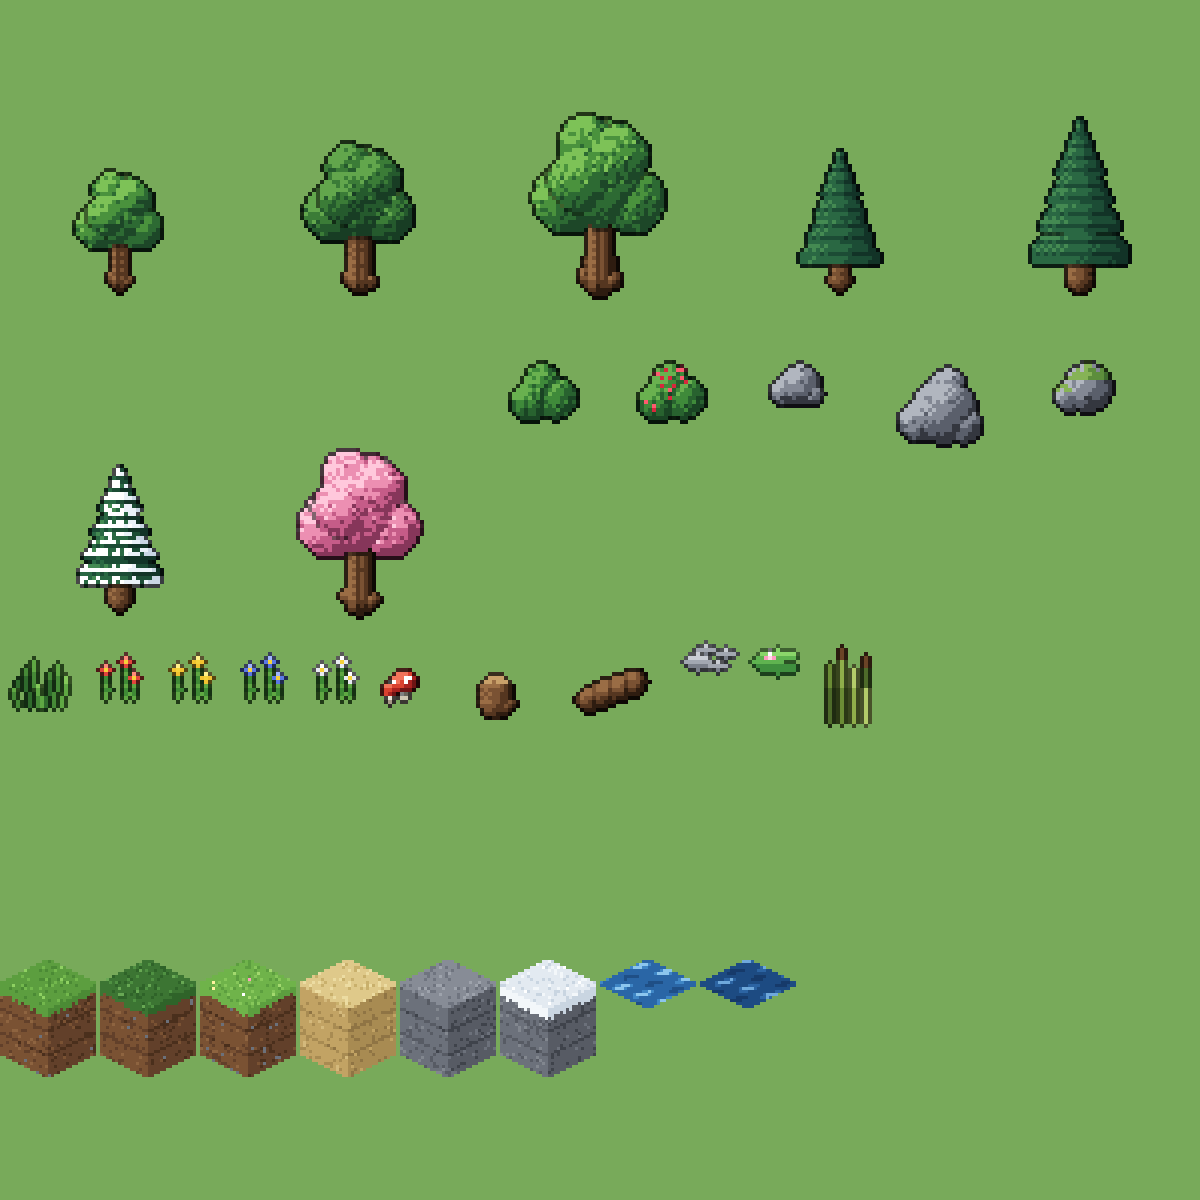
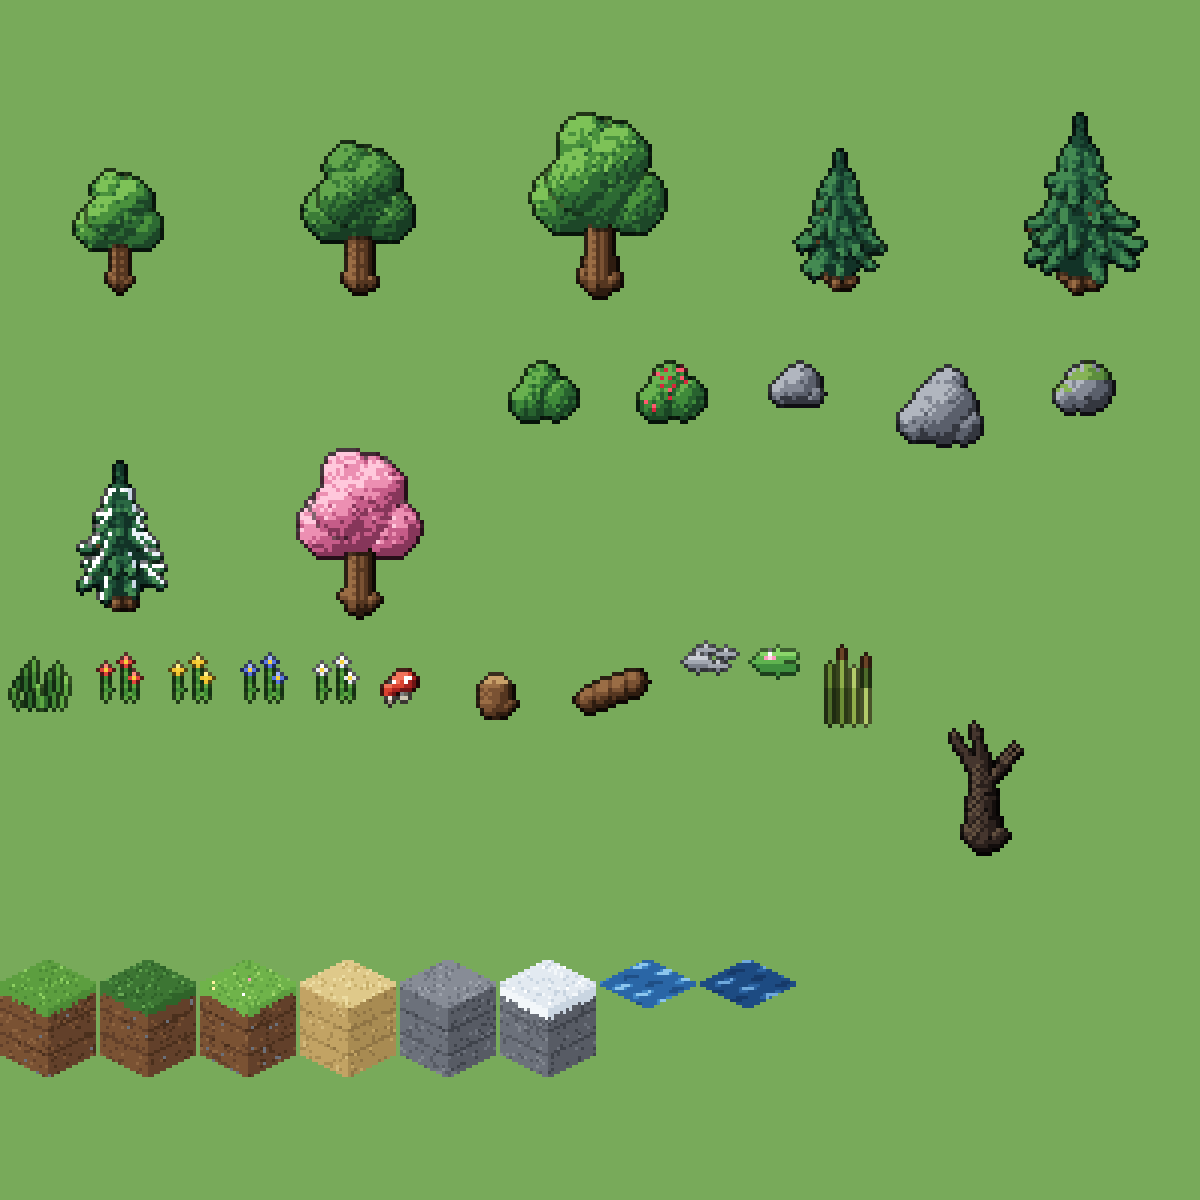
Sapins redessinés (étages de rameaux qui retombent, cœur sombre, bouts clairs, pommes de pin, neige sur les rameaux) ; brouillard retiré ; balancement de la végétation calme et continu (il ne clignote plus après quelques minutes de jeu)

diff --git a/js/main.js b/js/main.js
@@ -5,7 +5,6 @@ import { renderNomu, ANIMS, holdPoint, sizeOf } from './nomu.js';
 import { MUTATIONS, BRANCHES, draw3, looks } from './mutations.js';
 import { ITEMS, RECIPES, DROPS, STACK, TOOLS, buildIcons, buildMutIcons } from './items.js';
 import { renderBeast, BEASTS, BEAST_ANIMS, BEAST_MEAL } from './beasts.js';
-import { valueNoise } from './noise.js';
 import * as SP from './sprites.js';
 import { hash, makeBuffer } from './raster.js';
 import { drawText, textWidth } from './font.js';
@@ -124,7 +123,7 @@ const HOLD_ANIMS = ['grab', 'carry', 'carryWalk', 'carryJump', 'throwAim', 'thro
 // à une main (la droite) ; dérapage et freinage en sprint : la prise traîne sous sa main
 const HOLD1_ANIMS = ['grab1', 'carry1', 'carryWalk1', 'carryJump1', 'run1', 'drop1', 'rise1', 'throwAim1', 'throw1', 'skid', 'brake'];
 const holdPts = {};
-let objSprites, objGlow, objRot, icons, crackImgs, peopleImgs, bloodImgs, ashImgs, flameImgs, fogImg, waterImgs, foamImgs, rimImgs, shadows, ui;
+let objSprites, objGlow, objRot, icons, crackImgs, peopleImgs, bloodImgs, ashImgs, flameImgs, waterImgs, foamImgs, rimImgs, shadows, ui;
 const blockCache = new Map();
 
 function block(type, h, v) {
@@ -206,7 +205,6 @@ async function loadAssets() {
   icons = {};
   const ic = Object.assign(buildIcons(), buildMutIcons());
   for (const id in ic) icons[id] = toCanvas(ic[id]);
-  fogImg = toCanvas(fogBuffer());
   const total = jobs.length + 5;
   let done = 0;
   const progress = () => { bar.style.width = (100 * done / total) + '%'; };
@@ -305,6 +303,10 @@ let scent = null; // après avoir flairé : { v, t } le village le plus proche
 let msg = null; // bandeau au milieu de l'écran : { text, t }
 function showMsg(text, dur = 2.5, sub = '') { msg = { text, sub, t: dur }; }
 let windT = 0; // rafale après une frappe au sol : la végétation s'agite
+// Horloge du balancement de la végétation : le vent la fait avancer plus vite, sans jamais la
+// faire sauter (multiplier `time` par la rafale faisait clignoter les arbres après quelques minutes).
+let swayT = 0;
+const advanceSway = (dt) => { swayT += dt * (1 + Math.min(1.5, windT) * 1.2); };
 const hits = new Map();
 const particles = [];
 const flyers = []; // papillons / lucioles
@@ -324,7 +326,7 @@ function resetState() {
   if (realm) world = surface;
   realm = null; realmWorlds.clear(); realmData = new Map(); realmFade = 0;
   scent = null; msg = null; shake = 0; windT = 0; tod = 0.3; curVillage = null;
-  Object.assign(weather, { kind: 'clear', left: 40, rain: 0, cloud: 0, fog: 0, storm: 0, flash: 0, boltT: 6 });
+  Object.assign(weather, { kind: 'clear', left: 40, rain: 0, cloud: 0, storm: 0, flash: 0, boltT: 6 });
   weather.drops.length = weather.flakes.length = thunders.length = 0;
   input.punch = input.jump = input.sniff = input.grab = false;
   chargeStop();
@@ -1285,6 +1287,7 @@ function update(dt) {
   for (let i = bloods.length - 1; i >= 0; i--) if ((bloods[i].age += dt) > 180) bloods.splice(i, 1);
   tod = (tod + dt / DAY_LENGTH) % 1;
   hintT -= dt;
+  advanceSway(dt);
   windT = Math.max(0, windT - dt);
   if (shake > lastShake + 0.8) rumble(shake / 12, 60 + shake * 20); // la manette vibre avec l'écran
   shake = Math.max(0, shake - dt * 20);
@@ -2619,11 +2622,11 @@ function updateBeast(n, dt, d) {
 // ---------------------------------------------------------------- météo
 // Probabilités de chaque temps selon le réglage du monde (calme, variable, orageuse).
 const WEATHER_ODDS = [
-  { clear: 0.65, cloudy: 0.2, fog: 0.1, rain: 0.05, storm: 0 },
-  { clear: 0.4, cloudy: 0.2, fog: 0.12, rain: 0.2, storm: 0.08 },
-  { clear: 0.2, cloudy: 0.15, fog: 0.05, rain: 0.3, storm: 0.3 },
+  { clear: 0.72, cloudy: 0.23, rain: 0.05, storm: 0 },
+  { clear: 0.47, cloudy: 0.25, rain: 0.2, storm: 0.08 },
+  { clear: 0.23, cloudy: 0.17, rain: 0.3, storm: 0.3 },
 ];
-const weather = { kind: 'clear', left: 40, rain: 0, cloud: 0, fog: 0, storm: 0, flash: 0, boltT: 6, snow: false, drops: [], flakes: [] };
+const weather = { kind: 'clear', left: 40, rain: 0, cloud: 0, storm: 0, flash: 0, boltT: 6, snow: false, drops: [], flakes: [] };
 const thunders = []; // grondements à venir (le son arrive après l'éclair)
 
 function updateWeather(dt) {
@@ -2636,9 +2639,8 @@ function updateWeather(dt) {
   }
   const k = W.kind;
   const ease = (v, t, sp) => v + (t - v) * Math.min(1, dt * sp);
-  W.cloud = ease(W.cloud, { clear: 0, cloudy: 0.6, fog: 0.35, rain: 0.8, storm: 1 }[k], 0.15);
+  W.cloud = ease(W.cloud, { clear: 0, cloudy: 0.6, rain: 0.8, storm: 1 }[k] || 0, 0.15);
   W.rain = ease(W.rain, { rain: 0.7, storm: 1 }[k] || 0, 0.2);
-  W.fog = ease(W.fog, { fog: 1, rain: 0.15, storm: 0.1 }[k] || 0, 0.12);
   W.storm = ease(W.storm, k === 'storm' ? 1 : 0, 0.2);
   // en montagne et sur la neige, il neige au lieu de pleuvoir
   const tt = world.typeAt(Math.floor(player.x), Math.floor(player.y));
@@ -2677,23 +2679,6 @@ function strike() {
   }
 }
 
-// Texture de brouillard : des nappes tramées qui dérivent (tuilée à l'écran).
-function fogBuffer() {
-  const w = 160, h = 120, b = makeBuffer(w, h);
-  // bruit raccordable : on mélange 4 copies décalées pour que les bords se rejoignent
-  const tile = (x, y, sx, sy, seed) => {
-    const n = (a, c) => valueNoise(a / sx, c / sy, seed);
-    return (n(x, y) * (w - x) * (h - y) + n(x - w, y) * x * (h - y) + n(x, y - h) * (w - x) * y + n(x - w, y - h) * x * y) / (w * h);
-  };
-  for (let y = 0; y < h; y++) for (let x = 0; x < w; x++) {
-    const v = (tile(x, y, 26, 16, 7) * 0.65 + tile(x, y, 9, 6, 8) * 0.35 - 0.5) * 1.6 + 0.5;
-    const bay = ((x & 1) ^ (y & 1)) ? 0.04 : -0.04;
-    if (v + bay > 0.62) b.set(x, y, [226, 232, 240], 150);
-    else if (v + bay > 0.5 && (x + y) % 2 === 0) b.set(x, y, [214, 222, 232], 110);
-  }
-  return Object.assign(b, { ox: 0, oy: 0 });
-}
-
 function drawWeather(dt) {
   const W = weather;
   // pluie (ou neige) en espace écran
@@ -2719,13 +2704,6 @@ function drawWeather(dt) {
       }
     }
     if (p.y > (W.snow ? VH : p.gy) || p.x > VW + 4) { p.y = -4 - Math.random() * 20; p.x = Math.random() * (VW + 40) - 40; p.gy = VH * (0.3 + Math.random() * 0.75); }
-  }
-  // brouillard qui dérive
-  if (W.fog > 0.02) {
-    ctx.globalAlpha = Math.min(0.85, W.fog * 0.8);
-    const fx0 = -Math.floor((time * 4) % fogImg.width), fy0 = -Math.floor((time * 1.5) % fogImg.height);
-    for (let y = fy0; y < VH; y += fogImg.height) for (let x = fx0; x < VW; x += fogImg.width) ctx.drawImage(fogImg, x, y);
-    ctx.globalAlpha = 1;
   }
 }
 
@@ -3360,6 +3338,7 @@ function buildKey(e) {
 function updateBuild(dt) {
   const B = build;
   time += dt; B.t += dt;
+  advanceSway(dt);
   if (msg && (msg.t -= dt) <= 0) msg = null;
   if (toast && (toast.t -= dt) <= 0) toast = null;
   shake = Math.max(0, shake - dt * 20);
@@ -5663,9 +5642,8 @@ function drawObject(e) {
   let f = 0;
   if (frames.length > 1) {
     const ph = hash(e.x, e.y, 1) * 10;
-    const wind = Math.sin(time * 0.7 + e.x * 0.15 + e.y * 0.1); // rafales qui traversent le monde
-    const gust = 1 + Math.max(0, wind) + windT * 3; // la bourrasque d'une frappe affole tout
-    f = Math.floor(time * (info.tree ? 2 : 2.5) * gust + ph) % frames.length;
+    const wave = Math.max(0, Math.sin(time * 0.5 + e.x * 0.15 + e.y * 0.1)) * 0.9; // une rafale qui traverse le monde
+    f = Math.floor(swayT * (info.tree ? 1.3 : 1.8) + ph + wave) % frames.length;
   }
   const img = rk ? objRot[e.o][rk].img : frames[f];
   draw(img, gx - img.ox, gy - img.oy);
@@ -6272,6 +6250,7 @@ function frame(now) {
 // Écran d'accueil : la caméra survole lentement le monde.
 function updateMenu(dt) {
   time += dt;
+  advanceSway(dt);
   tod = (tod + dt / DAY_LENGTH) % 1;
   pollPad();
   menuPad(pad, dt);

diff --git a/js/sprites.js b/js/sprites.js
@@ -8,6 +8,7 @@ const LEAF_FOREST = ramp('#183d24', '#255a2d', '#3b7c37', '#62a64c');
 const CHERRY = ramp('#86365a', '#c55c88', '#ec8fb2', '#ffc8dc');
 const PINE = ramp('#123327', '#1c4c35', '#2a6843', '#448a52');
 const SNOWY = ramp('#9cb0c6', '#c9d6e4', '#eaf1f8', '#ffffff');
+const CONE = hex('#5a3a1e'); // pomme de pin
 const ROCK = ramp('#34373f', '#5a5f6b', '#838894', '#b1b6bf');
 const MOSS = ramp('#2b4a23', '#3f6b2e', '#5d8e3c', '#86b356');
 const BUSH = ramp('#1a4424', '#28622f', '#3f8a3a', '#69b14f');
@@ -41,19 +42,37 @@ function treeParts(kind, f, seed) {
       parts.push({ a: [x + sw(z), y, z], r1: r, ramp: leaves, group: 2 + (i > 3 ? 1 : 0), tex: leafTex(seed + i, sway * 0.06 * (z - 10)) });
     });
   } else if (kind === 'pine' || kind === 'snowpine') {
-    parts.push({ a: [0, 0, 0], b: [0, 0, 10], r1: 2.6, r2: 2, ramp: BARK, group: 1 });
-    const layers = [[7, 10, 20], [13, 8.2, 26], [19, 6.4, 31], [25, 4.6, 36]];
-    layers.forEach(([z, r, top], i) => {
-      parts.push({
-        a: [sw(z), 0, z], b: [sw(top), 0, top], r1: r, r2: 0.6, ramp: PINE, group: 2 + i,
-        tex: (p) => {
-          if (p.t === 0 && p.ey > p.r * 0.25) return null; // jupe plate, pas de fond arrondi
-          if (kind === 'snowpine' && (p.y + i) % 3 !== 0 && hash(p.x, p.y, 3) < (p.y + i) % 3 * 0.45) return SNOWY[Math.min(3, p.shade + 1)];
-          if ((p.y + i) % 3 === 0) return Math.max(0, p.shade - 1);
-          return p.shade;
-        },
-      });
+    // Sapin : un tronc à racines, puis des étages de branches. Chaque étage = un cœur conique
+    // plus une couronne de rameaux qui partent du tronc et retombent : la silhouette est
+    // dentelée comme un vrai sapin. Bouts des rameaux plus clairs, dessous dans l'ombre,
+    // aiguilles en grain, quelques pommes de pin ; la neige se pose sur le dessus des rameaux.
+    const snow = kind === 'snowpine', rnd = (k) => hash(k, seed, 41);
+    const needles = (i, core) => (p) => {
+      const r = hash(p.x, p.y, seed + i * 13);
+      if (snow && p.ny < (core ? -0.55 : -0.2) && r < 0.88) return SNOWY[Math.min(3, p.shade + (p.ny < -0.6 ? 1 : 0))];
+      if (!core && r > 0.988 && p.t > 0.35 && p.ny > -0.2) return CONE;
+      let sh = p.shade;
+      if (core) sh--; // le cœur, sous les rameaux : de la profondeur entre les étages
+      else if (p.t > 0.72) sh++; // les bouts au soleil
+      if (p.ny > 0.5) sh--; // le dessous
+      if (r < 0.17) sh--; else if (r > 0.95) sh++;
+      return Math.max(0, Math.min(3, sh));
+    };
+    parts.push({ a: [0, 0, 0], b: [sw(12), 0, 12], r1: 2.3, r2: 1.3, ramp: BARK, group: 1,
+      tex: (p) => ((p.y % 3 === 0 || hash(p.x, p.y, 8) < 0.15) && p.shade > 0 ? p.shade - 1 : p.shade) });
+    for (const [x, y] of [[-2.8, 1.3], [2.6, -1.2], [0.8, 2.8]]) parts.push({ a: [x, y, 0.3], b: [0, 0, 2.6], r1: 1.25, r2: 1, ramp: BARK, group: 1 });
+    const tiers = [[9.5, 11, 8], [14.5, 9.3, 8], [19.5, 7.5, 7], [24.2, 5.7, 6], [28.5, 4, 5]];
+    tiers.forEach(([z, R, n], i) => {
+      const g = 2 + i;
+      parts.push({ a: [sw(z - 1), 0, z - 1], b: [sw(z + 6), 0, z + 6], r1: R * 0.6, r2: 0.9, ramp: PINE, group: g, tex: needles(i, true) });
+      for (let k = 0; k < n; k++) {
+        const a = (k / n + rnd(i * 17 + k) * 0.1 + i * 0.29) * Math.PI * 2, rr = R * (0.82 + rnd(i * 17 + k + 7) * 0.26);
+        const ez = z - 2 - rnd(i * 31 + k) * 1.4, sz = z + 1.2;
+        parts.push({ a: [sw(sz) + Math.cos(a) * 1.2, Math.sin(a) * 1.2, sz], b: [sw(ez) + Math.cos(a) * rr, Math.sin(a) * rr, ez],
+          r1: 2.5 - i * 0.22, r2: 1.05, ramp: PINE, group: g, tex: needles(i, false) });
+      }
     });
+    parts.push({ a: [sw(31), 0, 31], b: [sw(38), 0, 38], r1: 1.7, r2: 0.35, ramp: PINE, group: 8, tex: needles(6, true) });
   }
   return parts;
 }

diff --git a/sw.js b/sw.js
@@ -1,7 +1,7 @@
 // Cache hors-ligne : le jeu marche même sans réseau une fois ouvert.
 // Change VERSION à chaque mise à jour pour forcer le rafraîchissement (`node tools/bump.mjs`,
 // qui met aussi à jour le numéro affiché à l'accueil dans js/version.js).
-const VERSION = 'brainless-v36';
+const VERSION = 'brainless-v37';
 const FILES = [
   './', './index.html', './manifest.webmanifest',
   './js/main.js', './js/world.js', './js/noise.js', './js/raster.js', './js/nomu.js', './js/sprites.js', './js/font.js', './js/audio.js', './js/pad.js', './js/buildings.js', './js/people.js', './js/saves.js', './js/menu.js', './js/beasts.js', './js/version.js', './js/mutations.js', './js/items.js',

diff --git a/js/version.js b/js/version.js
@@ -1,3 +1,3 @@
 // Numéro de version affiché sur l'écran d'accueil. Toujours le même que VERSION dans sw.js :
 // on les change ensemble avec `node tools/bump.mjs`.
-export const VERSION = 36;
+export const VERSION = 37;

diff --git a/CLAUDE.md b/CLAUDE.md
@@ -31,8 +31,9 @@ du même jeu.
    éclaircir ~7 %. Ça donne le grain feuillage / roche / herbe. Pas de motif régulier visible.
 8. **Couleurs saturées mais pas fluo.** Verts naturels, bleus profonds pour l'eau, tons terre.
    Le néon est réservé aux effets d'énergie (charge) et aux lucioles.
-9. **Tout bouge un peu** : végétation qui se balance avec le vent (`windT` amplifie après les
-   gros coups), eau animée sur 4 frames, respiration au repos.
+9. **Tout bouge un peu** : végétation qui se balance doucement avec le vent (horloge `swayT`, qui
+   avance plus vite quand `windT` souffle après les gros coups ou l'orage ; ne jamais multiplier `time`
+   par une rafale, ça fait clignoter), eau animée sur 4 frames, respiration au repos.
 10. **Lisible à la taille réelle.** Le jeu s'affiche à environ 240 px de haut en pixels logiques. Un
     détail de moins de 2 px ne se verra pas. Toujours juger un sprite à ×1 *et* agrandi.
 
@@ -164,8 +165,11 @@ rouges sont **peu nombreuses mais épaisses** (épaule, dos, un avant-bras).
 - **Arbres** : tronc en capsule effilée + houppier en grappe de 5 à 7 sphères. On a 4 frames
   de balancement (`SWAY_FRAMES`), et le haut bouge plus que le bas. Le canevas fait 60×78,
   avec l'origine en (30, 70).
-- **Sapins** : couches de capsules effilées dont le dessous arrondi est coupé (« jupe plate »),
-  avec des stries horizontales tous les 3 px.
+- **Sapins** : un tronc à racines, puis 5 étages de branches. Chaque étage = un cœur conique (un ton
+  plus sombre : la profondeur sous les rameaux) et une couronne de 5 à 8 rameaux en capsules qui
+  partent du tronc et retombent, en éventail décalé d'un étage à l'autre : silhouette dentelée.
+  Bouts des rameaux un ton plus clairs, dessous à l'ombre, aiguilles en grain `hash`, quelques
+  pommes de pin `#5a3a1e`. Sapin enneigé : la neige se pose sur le dessus des rameaux (`ny < 0`).
 - **Rochers** : 2 à 4 sphères qui se chevauchent, une ombre au sol, mousse sur le dessus si besoin.
 - **Petits objets** (herbes, fleurs, roseaux, cailloux, nénuphars) : dessinés pixel par pixel,
   2 à 3 frames de balancement, contour sel-out.
@@ -377,9 +381,9 @@ rouges sont **peu nombreuses mais épaisses** (épaule, dos, un avant-bras).
   zigzag), cerf (bois, fuit vite), sanglier (défenses, charge si on l'approche ou le frappe), loup
   (meute de 3, chasse la nuit, fuit blessé). Ils apparaissent hors écran selon le biome et
   repartent quand Brainless s'éloigne ; quantité réglée par le paramètre FAUNE.
-- **Météo** (`updateWeather`) : clair, couvert, brouillard, pluie, orage, tirés au sort selon le
-  paramètre METEO. Pluie = gouttes de 6 px en espace écran + éclaboussures ; neige à la place sur
-  la neige et en altitude ; brouillard = texture tramée raccordable qui dérive ; ciel couvert =
+- **Météo** (`updateWeather`) : clair, couvert, pluie, orage, tirés au sort selon le
+  paramètre METEO (pas de brouillard : retiré, il voilait l'écran). Pluie = gouttes de 6 px en espace
+  écran + éclaboussures ; neige à la place sur la neige et en altitude ; ciel couvert =
   teinte plus sombre. L'orage agite la végétation et la foudre frappe (souvent un arbre) : éclair
   en zigzag `#8fd8ff`/blanc, flash, tonnerre retardé selon la distance. Les villageois rentrent
   quand il pleut fort.
